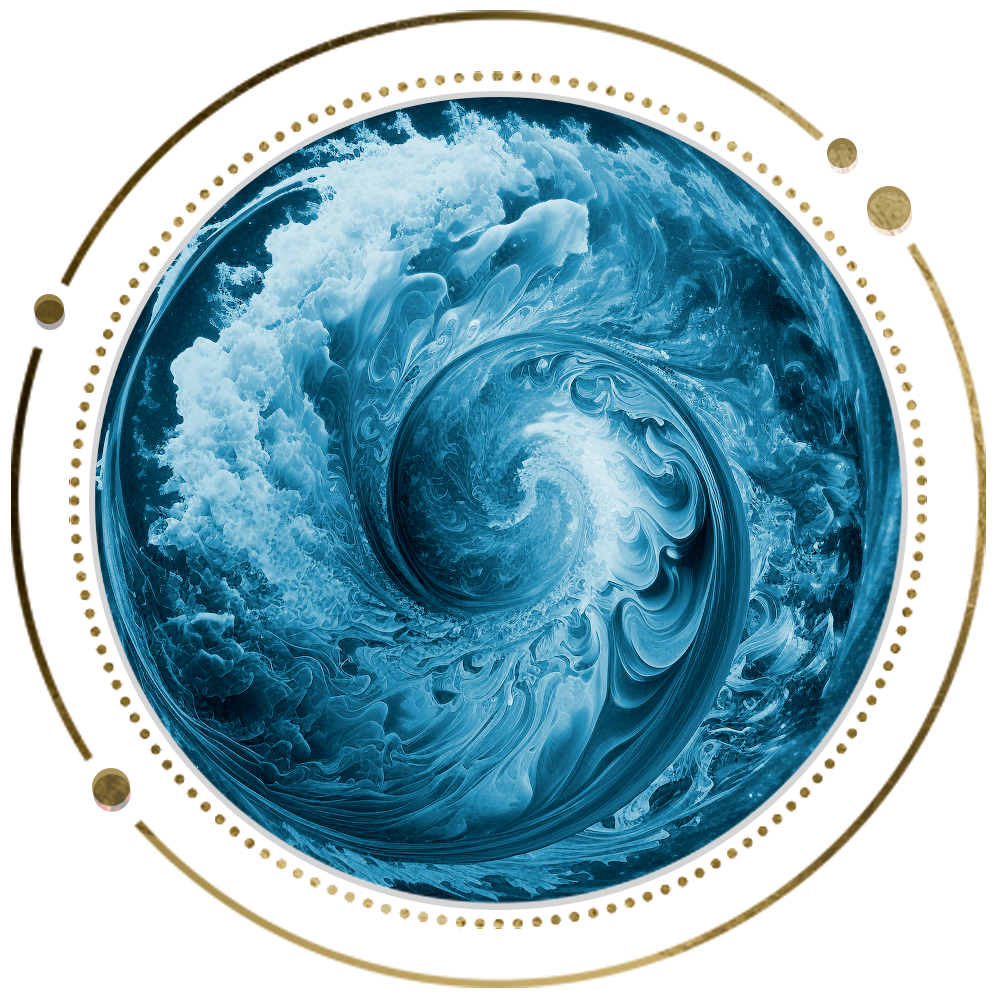
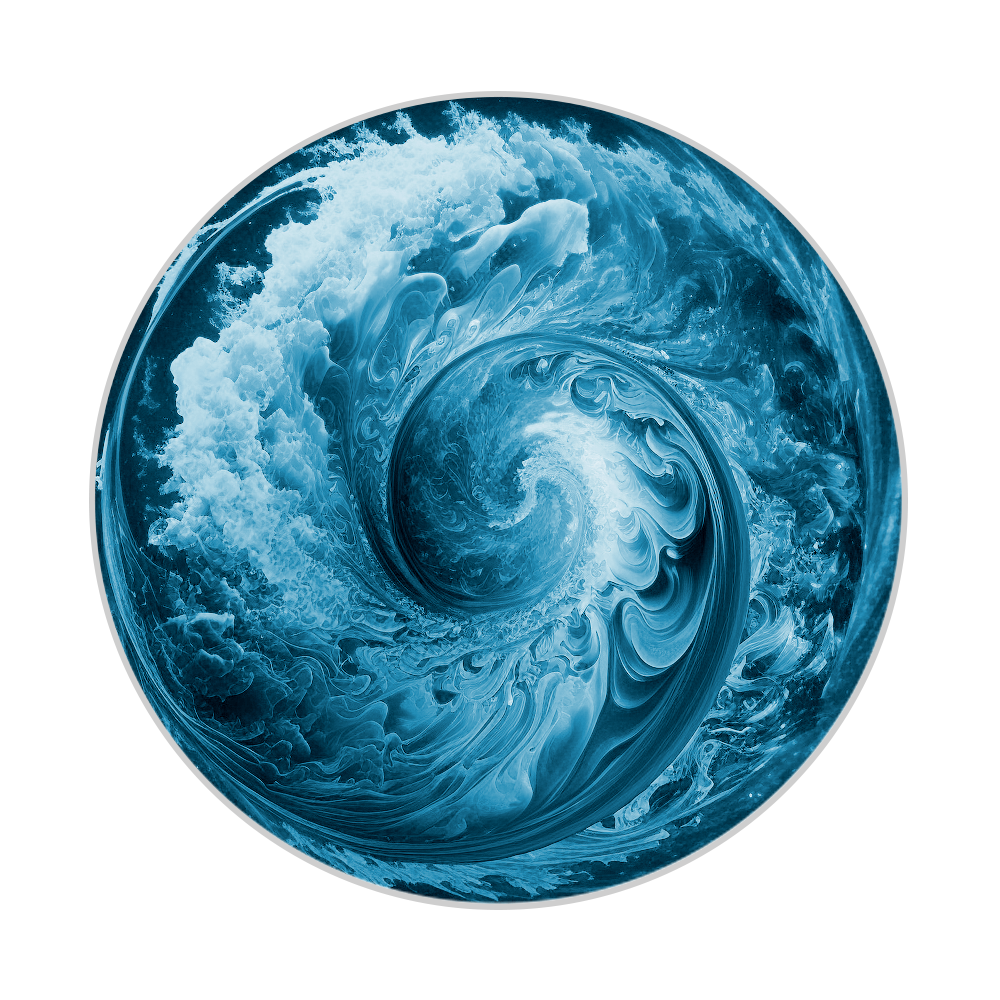
Add rotating resources. Unlock logout change. Update Sanctuary image

diff --git a/src/shared/Reward.tsx b/src/shared/Reward.tsx
@@ -1,10 +1,13 @@
 import { Flex, Image, Text, Box } from '@chakra-ui/react';
+import InnerRing from '../assets/resources/images/ring_inner.png';
+import OuterRing from '../assets/resources/images/ring_outer.png';
 
 function Reward({ image, name, value, icon }) {
     return (
         <Flex alignItems="center">
-            <Box position="relative">
+            <Flex justifyContent="center" alignItems="center" position="relative">
                 <Image
+                    zIndex={1}
                     src={image}
                     alt="Reward"
                     borderRadius="50%"
@@ -13,7 +16,15 @@ function Reward({ image, name, value, icon }) {
                     boxShadow="0 0 6px 3px #0000008c"
                     backgroundColor="black"
                 />
-            </Box>
+
+                <Flex zIndex={2} layerStyle="absoluteCentered" animation="rotationReverse 3s infinite linear">
+                    <Image src={InnerRing} alt="InnerRing" />
+                </Flex>
+
+                <Flex zIndex={3} layerStyle="absoluteCentered" animation="rotation 7s infinite linear">
+                    <Image src={OuterRing} alt="OuterRing" />
+                </Flex>
+            </Flex>
 
             <Flex flexDir="column" ml={3}>
                 <Text mb={1} fontSize="18px">

diff --git a/src/components/Quests.tsx b/src/components/Quests.tsx
@@ -26,7 +26,6 @@ import {
     useQuestsContext,
 } from '../services/quests';
 import Vision from '../assets/videos/vision.webm';
-import FrameGlow from '../assets/videos/glow.webm';
 import { AiOutlineEye } from 'react-icons/ai';
 import { useNavigate } from 'react-router-dom';
 import { useSoundsContext, SoundsContextType } from '../services/sounds';
@@ -55,7 +54,7 @@ import {
     useTransactionsContext,
 } from '../services/transactions';
 import Reward from '../shared/Reward';
-import { getFrame, getFullTicket } from '../services/assets';
+import { getFrame, getFrameGlow, getFullTicket } from '../services/assets';
 
 const LARGE_FRAME_SIZE = 352;
 const MEDIUM_FRAME_SIZE = 296;
@@ -276,7 +275,7 @@ function Quests() {
 
                         <Flex layerStyle="absoluteCentered" zIndex={1}>
                             <video style={{ maxWidth: '114%' }} autoPlay={true} muted={true} loop={true}>
-                                <source src={FrameGlow} type="video/webm" />
+                                <source src={getFrameGlow()} type="video/webm" />
                             </video>
                         </Flex>
                     </Flex>

diff --git a/src/services/quests.tsx b/src/services/quests.tsx
@@ -169,7 +169,7 @@ export const QUESTS: any[] = [
         ],
         layers: [
             {
-                source: Q1L1,
+                source: Q3L1,
                 mode: 'normal',
             },
         ],
@@ -198,7 +198,7 @@ export const QUESTS: any[] = [
         ],
         layers: [
             {
-                source: Q1L1,
+                source: Q3L1,
                 mode: 'normal',
             },
         ],
@@ -231,7 +231,7 @@ export const QUESTS: any[] = [
         ],
         layers: [
             {
-                source: Q1L1,
+                source: Q3L1,
                 mode: 'normal',
             },
         ],
@@ -262,7 +262,7 @@ export const QUESTS: any[] = [
         ],
         layers: [
             {
-                source: Q1L1,
+                source: Q3L1,
                 mode: 'normal',
             },
         ],
@@ -296,7 +296,7 @@ export const QUESTS: any[] = [
         ],
         layers: [
             {
-                source: Q1L1,
+                source: Q3L1,
                 mode: 'normal',
             },
         ],

diff --git a/src/App.tsx b/src/App.tsx
@@ -46,11 +46,11 @@ function App() {
     const { address } = useGetAccountInfo();
     const { isLoggedIn } = useGetLoginInfo();
 
-    useEffect(() => {
-        if (!isLoggedIn && !address) {
-            console.log('[App.tsx] notLoggedIn & no address');
-        }
-    }, [address, isLoggedIn]);
+    // useEffect(() => {
+    //     if (!isLoggedIn && !address) {
+    //         console.log('[App.tsx] notLoggedIn & no address');
+    //     }
+    // }, [address, isLoggedIn]);
 
     useEffect(() => {
         removeTxs(map(failedTransactionsArray, (tx) => head(tx)));

diff --git a/src/services/assets.tsx b/src/services/assets.tsx
@@ -5,8 +5,10 @@ import Elder_5 from '../assets/backgrounds/Elder_5.png';
 import Frame_2 from '../assets/frame_2.png';
 import Frame_3 from '../assets/frame_3.png';
 import Praying from '../assets/images/energy.jpg';
+import FrameGlow from '../assets/videos/glow.webm';
 
 export const getLayoutBackground = () => Elder;
 export const getFrame = () => Frame_3;
 export const getFaucetImage = () => Praying;
 export const getFullTicket = () => Ticket;
+export const getFrameGlow = () => FrameGlow;

diff --git a/src/components/Unlock.tsx b/src/components/Unlock.tsx
@@ -41,8 +41,8 @@ const Unlock = () => {
         if (isUserLoggedIn()) {
             checkAuthentication();
         } else {
-            console.warn('[Unlock.tsx] Logging out without /unlock');
-            logout();
+            console.warn('[Unlock.tsx] Logging out to /unlock');
+            logout('/unlock');
         }
     }, [isLoggedIn, address]);
 

diff --git a/src/global.scss b/src/global.scss
@@ -169,3 +169,22 @@ body {
     border-radius: 0px;
     border: 0;
 }
+
+// Animations
+@keyframes rotation {
+    from {
+        transform: rotate(0deg);
+    }
+    to {
+        transform: rotate(359deg);
+    }
+}
+
+@keyframes rotationReverse {
+    from {
+        transform: rotate(0deg);
+    }
+    to {
+        transform: rotate(-359deg);
+    }
+}
